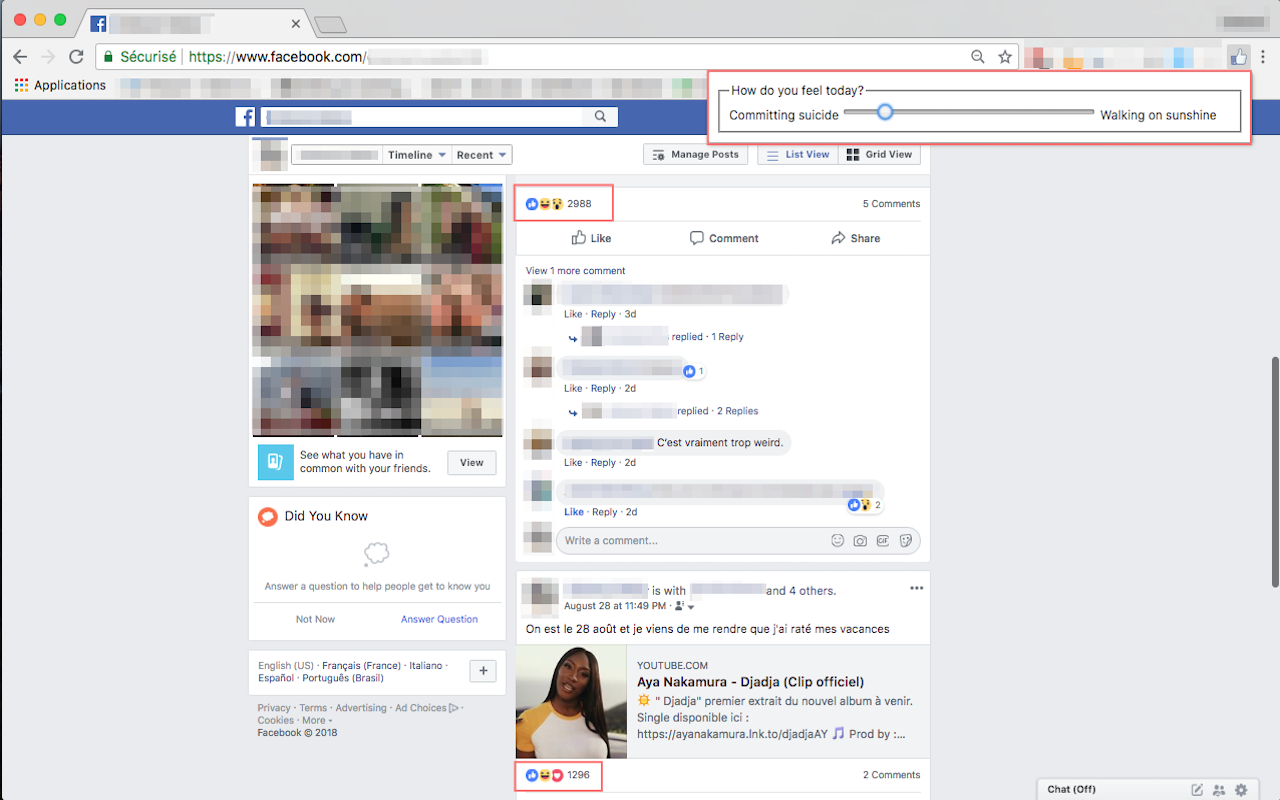
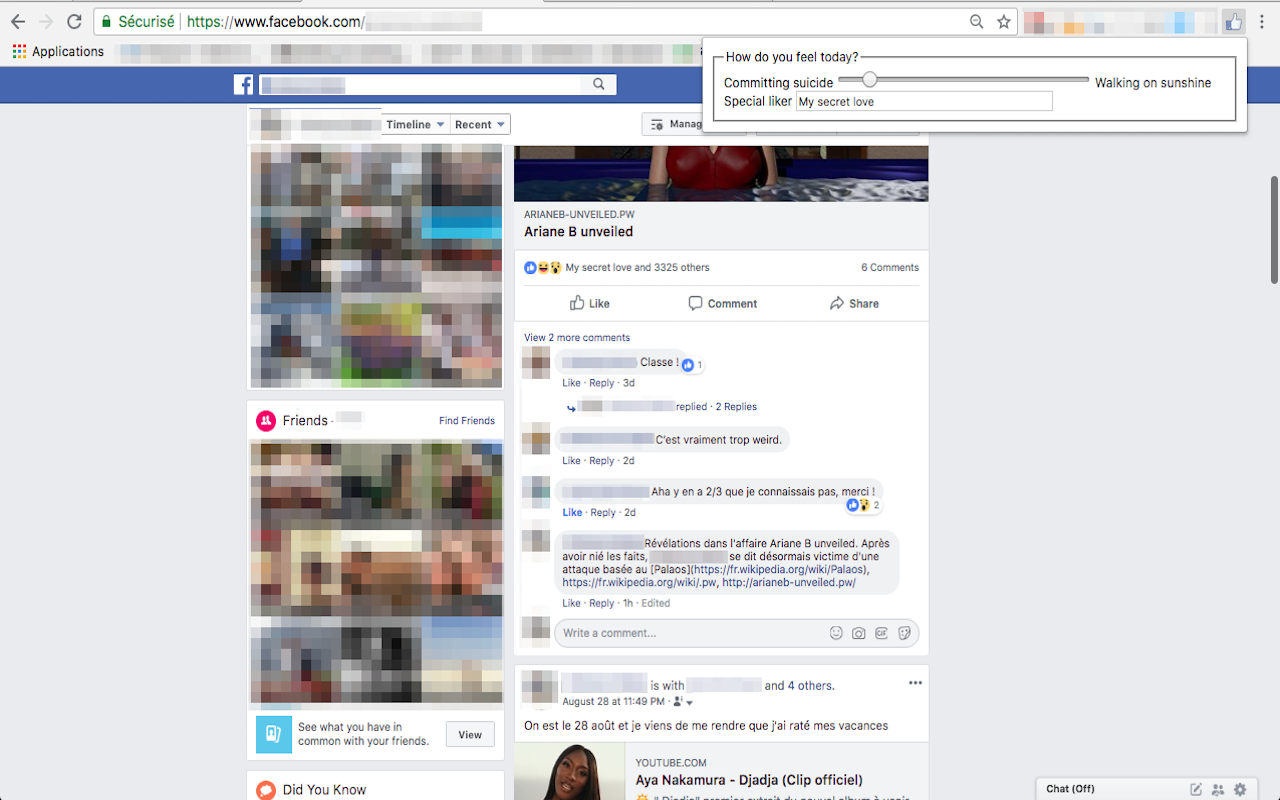
Refacto and add special liker

diff --git a/content.js b/content.js
@@ -3,47 +3,74 @@ let moodValue = 50;
 let intervalId;
 let originalLikes = [];
 let randomLikes = [];
+let specialLiker = '';
 
-const setNumberOfLikes = (moodValue) => () => {
-  const htmlSpans = document.getElementsByTagName('span');
-  const arraySpans = Array.from(htmlSpans);
-  const filteredSpans = arraySpans
-    .filter((span) => span.className === "_4arz");
-  if (randomLikes.length < filteredSpans.length) {
-    let minMood = parseFloat(moodValue) / 2.0;
-    let maxMood = parseFloat(moodValue) * 2.0;
-    const newOriginalLikes = filteredSpans
-        .filter((span, i) => i >= originalLikes.length)
-        .map((span) => getNumberOfLikes(span.children[0].innerHTML));
-    originalLikes = [...originalLikes, ...newOriginalLikes];
-    randomLikes = originalLikes.map(
-      (originalLike, i) => i < randomLikes.length ? randomLikes[i] : originalLike*getRndInteger(minMood, maxMood)
-    );
-    filteredSpans
-      .map((span, i) => span.children[0].innerHTML = randomLikes[i]);
-  }
+const setNumberOfLikes = (moodValue, specialLiker) => () => {
+  let minMood = parseFloat(moodValue) / 2.0;
+  let maxMood = parseFloat(moodValue) * 2.0;
+  const moodGenerator = () => getRndInteger(minMood, maxMood);
+  const likeSpans = getLikeSpans();
+  originalLikes = updateOriginalLikes(likeSpans, originalLikes);
+  randomLikes = updateRandomLikes(randomLikes, originalLikes, moodGenerator);
+  likeSpans
+    .map((span, i) => span.children[0].innerHTML = getInnerHtml(specialLiker, randomLikes[i]));
 };
+
+const getLikeSpans = () => Array
+  .from(document.getElementsByTagName('span'))
+  .filter((span) => span.className === "_4arz");
+
+const updateOriginalLikes = (likeSpans, originalLikes) => likeSpans.map(
+  (span, i) => i < originalLikes.length ? originalLikes[i] : getNumberOfLikes(span.children[0].innerHTML)
+);
+
+const updateRandomLikes = (randomLikes, originalLikes, moodGenerator) => originalLikes.map(
+  (originalLike, i) => i < randomLikes.length ? randomLikes[i] : originalLike*moodGenerator()
+);
+
+const getInnerHtml = (name, likeCount) => name ? `${name} and ${likeCount} others` : likeCount;
 
 const getNumberOfLikes = (originalString) => originalString.match(/\d+/) ? parseInt(originalString.match(/\d+/)[0]) + 2 : 1;
 
-chrome.runtime.onMessage.addListener(function (msg, sender, sendResponse) {
-  if (msg.text === 'facebook') {
-    const profileSpan = document.getElementsByClassName('_1vp5')[0];
-    const profileName = profileSpan.innerHTML;
-    const title = msg.title;
-    if (title && title.toLowerCase().includes(profileName.toLowerCase())) {
-      intervalId = window.setInterval(setNumberOfLikes(moodValue), 500);
-      intervalIds.push(intervalId);
-      console.log('So many friends around there');
+const isProfilePage = (title, profileName) => title && title.toLowerCase().includes(profileName.toLowerCase());
+
+const getProfileName = () => document.getElementsByClassName('_1vp5') ? document.getElementsByClassName('_1vp5')[0].innerHTML : '';
+
+const clearIntervalIds = (intervalIds) => {
+  intervalIds.map((intervalId) => window.clearInterval(intervalId));
+  return []
+};
+
+chrome.runtime.onMessage.addListener(function (message) {
+  if (message.title) {
+    const title = message.title;
+    const profileName = getProfileName();
+    if (isProfilePage(title, profileName)) {
+      chrome.storage.sync.get(['moodValue', 'specialLiker'], function(result) {
+        moodValue = result.moodValue || moodValue;
+        specialLiker = result.specialLiker || specialLiker;
+        intervalId = window.setInterval(setNumberOfLikes(moodValue, specialLiker), 500);
+        intervalIds.push(intervalId);
+        console.log('So many friends around there');
+            });
     } else {
-      intervalIds.map((intervalId) => window.clearInterval(intervalId))
+      // Do not update likes on other pages
+      intervalIds = clearIntervalIds(intervalIds)
     }
   }
-  if (msg.text === 'mood') {
-    moodValue = 101 - msg.moodValue;
-    intervalIds.map((intervalId) => window.clearInterval(intervalId));
+  if (message.moodValue) {
+    console.log('update setInterval with new mood', message.moodValue);
+    moodValue = 101 - message.moodValue;
+    intervalIds = clearIntervalIds(intervalIds);
     randomLikes = [];
-    intervalId = window.setInterval(setNumberOfLikes(moodValue), 500);
+    intervalId = window.setInterval(setNumberOfLikes(moodValue, specialLiker), 500);
+    intervalIds.push(intervalId);
+  }
+  if (message.specialLiker) {
+    console.log('update setInterval with new liker', message.specialLiker);
+    specialLiker = message.specialLiker;
+    intervalIds = clearIntervalIds(intervalIds);
+    intervalId = window.setInterval(setNumberOfLikes(moodValue, specialLiker), 500);
     intervalIds.push(intervalId)
   }
 });

diff --git a/popup.js b/popup.js
@@ -1,32 +1,32 @@
+let facebookTabIds = [];
 let moodValue = 50;
 let specialLiker = '';
 
-function sendMood(event) {
-  moodValue = event.target.value
-  console.log('moodValue', moodValue)
-  console.log('sendMood');
-  chrome.tabs.query({currentWindow: true, active: true}, function (tabs){
-    const activeTab = tabs[0];
-    moodValue = document.querySelector('input[name="mood"]').value;
-    chrome.storage.sync.set({moodValue}, function() {
-      console.log('MoodValue set to ' + moodValue);
-    });
-    chrome.tabs.sendMessage(activeTab.id, {text: 'mood', moodValue});
+function updateMood(event) {
+  moodValue = event.target.value;
+  chrome.storage.sync.set({moodValue}, function() {
+    console.log('MoodValue set to ' + moodValue);
+    facebookTabIds.map((tabId) => chrome.tabs.sendMessage(tabId, {moodValue}));
   });
 }
 
-function storeSpecialLiker(event, value) {
+function updateSpecialLiker(event) {
   specialLiker = event.target.value;
   chrome.storage.sync.set({specialLiker}, function() {
-    console.log('Special Liker set to ' + specialLiker)
+    console.log('Special Liker set to ' + specialLiker);
+    facebookTabIds.map((tabId) => chrome.tabs.sendMessage(tabId, {specialLiker}));
   });
 }
 
 document.addEventListener("DOMContentLoaded", function() {
-  chrome.storage.sync.get(['mood'], function(result) {
+  document.querySelector('input[name="mood"]').onchange = updateMood;
+  document.querySelector('input[name="special-liker"]').onchange = updateSpecialLiker;
+  chrome.storage.sync.get(['moodValue', 'facebookTabIds', 'specialLiker'], function(result) {
+    console.log('result', result);
+    facebookTabIds = result.facebookTabIds || facebookTabIds;
     moodValue = result.moodValue || moodValue;
+    specialLiker = result.specialLiker || specialLiker;
     document.querySelector('input[name="mood"]').value = moodValue;
-    document.querySelector('input[name="mood"]').onchange = sendMood;
-    document.querySelector('input[name="special-liker"]').onchange = storeSpecialLiker;
+    document.querySelector('input[name="special-liker"]').value = specialLiker;
   });
 });

diff --git a/background.js b/background.js
@@ -1,17 +1,16 @@
 // Regex-pattern to check URLs against.
 // It matches URLs like: http[s]://[...]stackoverflow.com[...]
 const facebookUrlRegex = /^https?:\/\/(?:[^./?#]+\.)?facebook\.com/;
+let facebookTabIds = [];
 
 chrome.tabs.onUpdated.addListener( function(tabId, changeInfo, tab){
 	const title = tab.title;
 	if(facebookUrlRegex.test(tab.url)){
-    chrome.tabs.sendMessage(
-      tab.id,
-      {
-        text: 'facebook',
-        title,
-      },
-      () => {},
-    );
+	  facebookTabIds.push(tabId);
+	  facebookTabIds = [...new Set(facebookTabIds)];
+	  chrome.storage.sync.set({facebookTabIds}, function() {
+      console.log('Facebook tab id set to ' + facebookTabIds);
+      chrome.tabs.sendMessage(tab.id, {title});
+    });
 	}
 });
